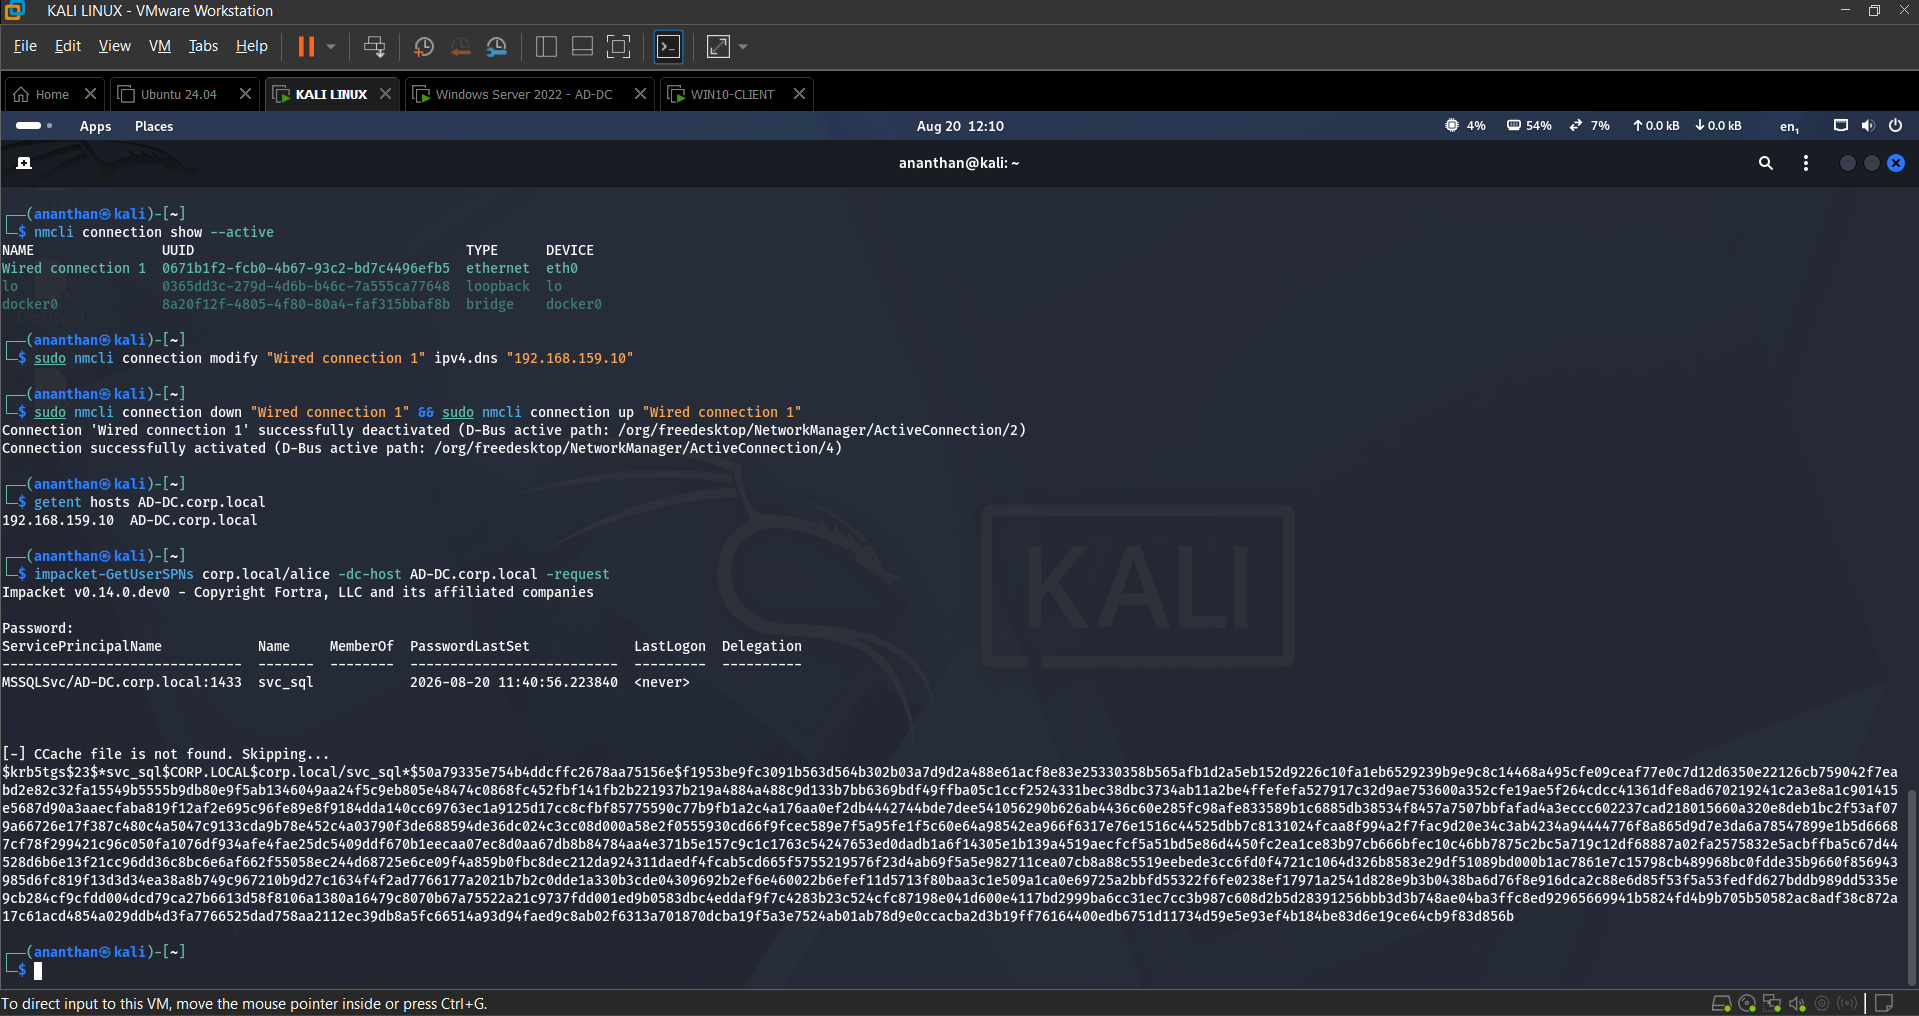
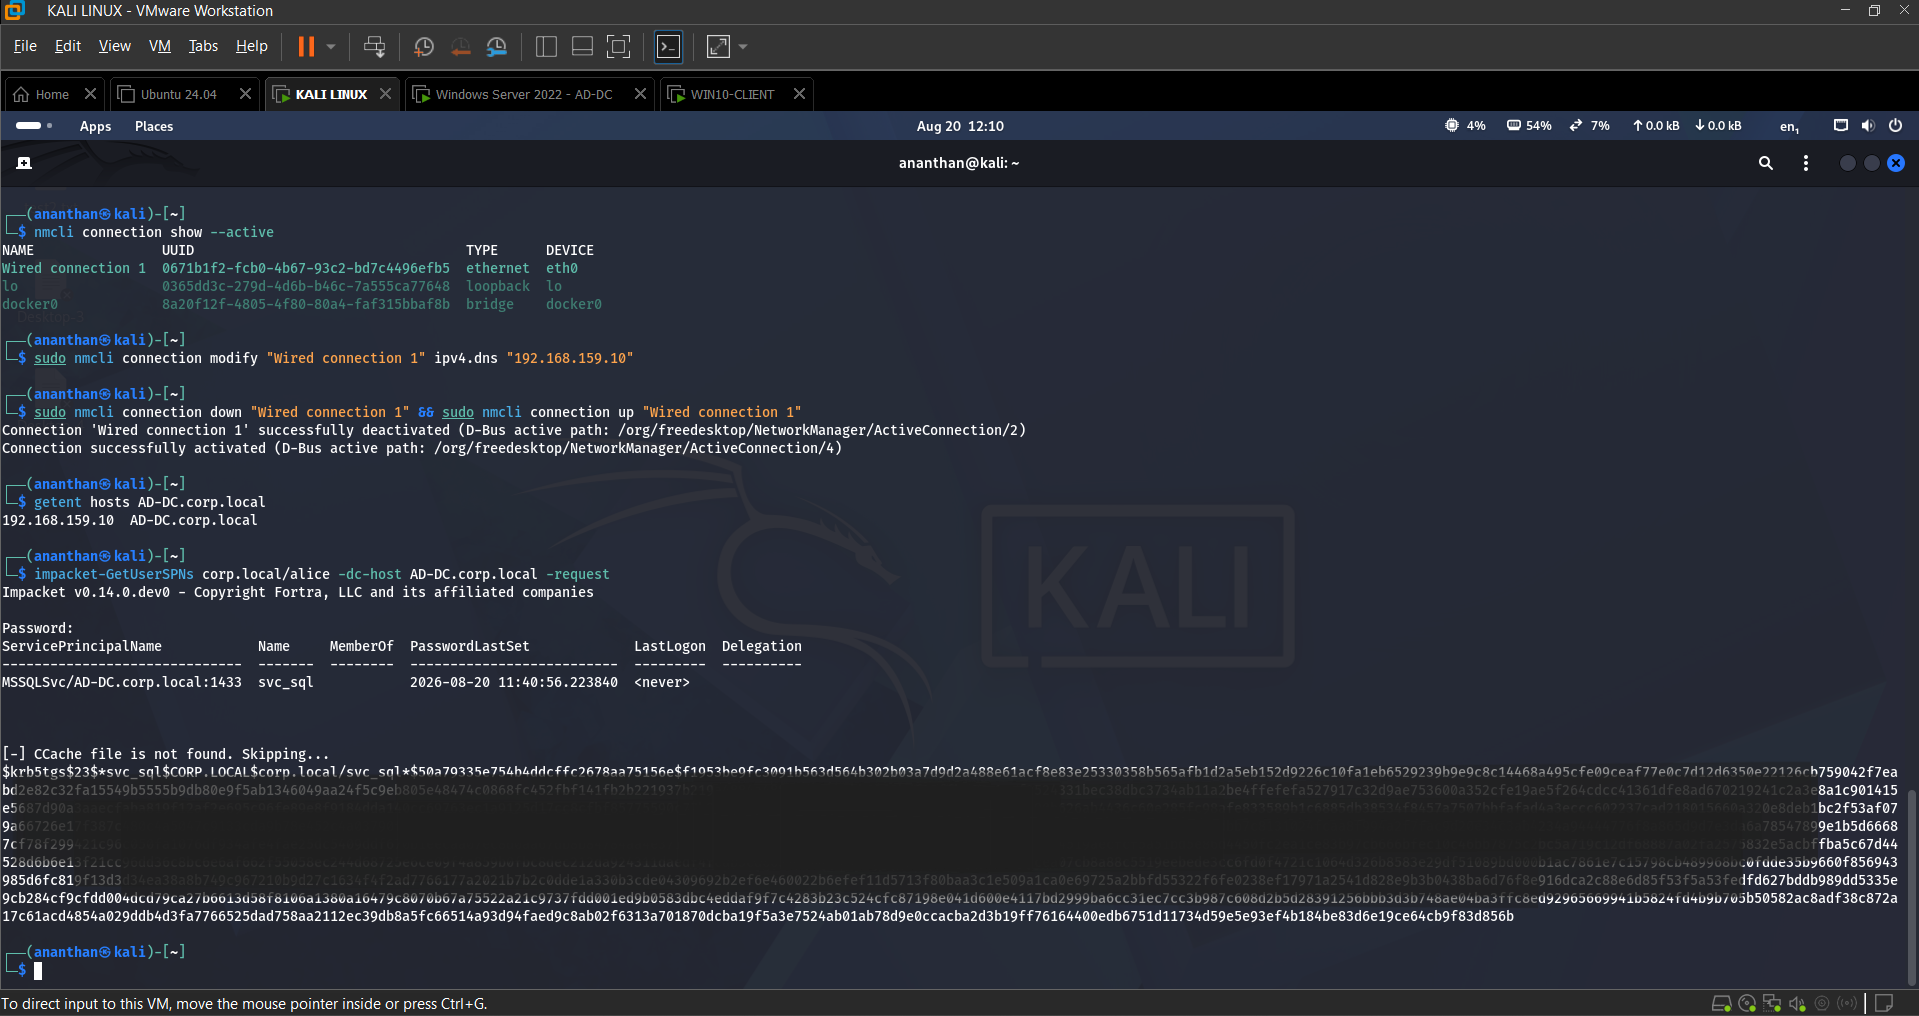
docs: finalize README and sanitize security evidence

Changed region(s): [[0.0, 0.7323, 0.9531, 0.8848]]

diff --git a/README.md b/README.md
@@ -373,9 +373,6 @@ The controlled misconfiguration was removed:
 - Attack-path discovery
 - Remediation validation
 
-### MITRE ATT&CK
-
-**T1078 — Valid Accounts / Identity-based privilege analysis**
 
 ### Documentation
 
@@ -429,7 +426,7 @@ The alert represents a **successful remote authentication investigation trigger*
 | AS-REP Roasting | `T1558.004` | `4768` | Pre-Authentication Type `0` | Validated |
 | Pass-the-Hash | `T1550.002` | `4624` + `4776` | Wazuh Rule `92652` + authentication context | Validated |
 | DCSync | `T1003.006` | `4662` | Replication-rights analysis + Rule `100005` logic validation | Validated |
-| BloodHound | `T1078` | AD identity data | Attack-path and privilege analysis | Validated |
+| BloodHound |  | AD identity data | Attack-path and privilege analysis | Validated |
 | SMB lateral authentication | `T1021.002` | `4624` | Wazuh Rule `92657` + remote authentication context | Validated |
 
 For the complete project-wide matrix, see:
